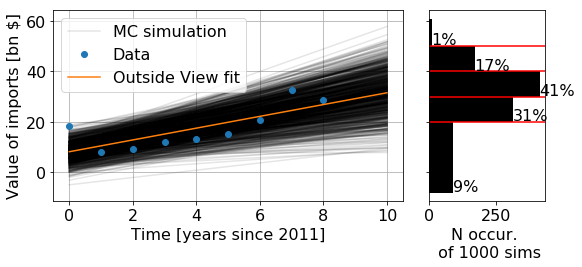
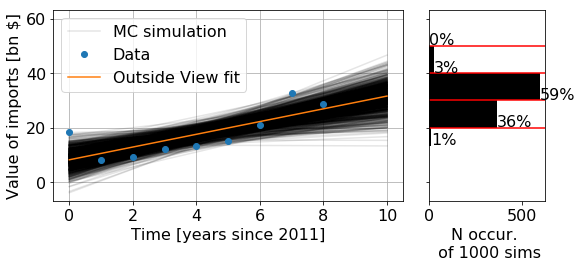
Added post on generating priors from historical data

diff --git a/_posts/_includes/head.html b/_posts/_includes/head.html
@@ -1,0 +1,9 @@
+ <script type="text/x-mathjax-config">
+    MathJax.Hub.Config({
+      tex2jax: {
+        skipTags: ['script', 'noscript', 'style', 'textarea', 'pre'],
+        inlineMath: [['$','$']]
+      }
+    });
+  </script>
+  <script src="https://cdn.mathjax.org/mathjax/latest/MathJax.js?config=TeX-AMS-MML_HTMLorMML" type="text/javascript"></script> 

diff --git a/_posts/.ipynb_checkpoints/2020-12-24-generating-priors-from-historical-data-checkpoint.md b/_posts/.ipynb_checkpoints/2020-12-24-generating-priors-from-historical-data-checkpoint.md
@@ -3,13 +3,41 @@ title: "Generating priors from historical data"
 tags:
   - forecasting
   - hardware
+  - python
 ---
+{% include_relative _includes/head.html %}
 
-I have recently started forecasting on CSET's [Foretell](https://www.cset-foretell.com/) platform. I've been interested in forecasting for a while, but I've always gotten stuck on where to start. The advice that most people seem to give (including Foretell's own [tutorial](https://www.cset-foretell.com/courses/2/slides/1)) is to start with a base rate (aka an "outside view") and then update it using the specific of the specific situation you are forecasting (aka an "inside view"). The problem I've had with this is that I generally have neither and inside view nor an outside view for more forecasts. I generally just come in with a uniform prior, thinking that all the options of the forecast are equally likely. In this post I'll explain my first step to go beyond this "uniform prior" forecast. 
+*Note, you can find the original Jupyter notebooks used to generate the plots in this post in my [forecasts repo](https://github.com/cphenicie/forecasts) in the Foretell folder. The file is 20201118_value_of_Chinese_semiconductor-imports.ipynb, and there is a PDF printout of the file for ease of viewing*
 
-One nice thing about Foretell's questions is sometimes they provide data from which one can construct a base rate. One example of this is the question [What will be the value, in dollars, of all Chinese imports of semiconductor manufacturing equipment in 2021?](https://www.cset-foretell.com/questions/95-what-will-be-the-value-in-dollars-of-all-chinese-imports-of-semiconductor-manufacturing-equipment-in-2021) The "answer" to this question takes the form of your confidence that this dollar value will fall within the ranges (in units of billion USD) {[0, 20], (20, 30], (30, 40], (40, 50], (50, $$\infty$$)}
+I have recently started forecasting on CSET's [Foretell](https://www.cset-foretell.com/) platform. I've been interested in forecasting for a while, but I've always gotten stuck on where to start. The advice that most people seem to give (including Foretell's own [tutorial](https://www.cset-foretell.com/courses/2/slides/1)) is to start with a base rate (aka an "outside view") and then update it using the specifics of the situation you are forecasting (aka an "inside view"). The problem I've had with this is that I generally have neither and inside view nor an outside view for most forecasts. I generally just come in with a uniform prior, thinking that all the options of the forecast are equally likely. In this post I'll explain my first step to go beyond this "uniform prior" forecast. 
 
-If you click "Show background information" below the question, they provide nine years' worth of data measuring exactly this quantity. 
+One nice thing about Foretell's questions is sometimes they provide data from which one can construct a base rate. One example of this is the question [What will be the value, in dollars, of all Chinese imports of semiconductor manufacturing equipment in 2021?](https://www.cset-foretell.com/questions/95-what-will-be-the-value-in-dollars-of-all-chinese-imports-of-semiconductor-manufacturing-equipment-in-2021) The "answer" to this question takes the form of your confidence that this dollar value will fall within the ranges (in units of billion USD) {[0, 20], (20, 30], (30, 40], (40, 50], (50, $\infty$)}
+
+If you click "Show background information" below the question, they provide nine years' worth of data measuring exactly this quantity.
+
 ![original data](/assets/images/2020-12-24-forecast/original_data.png)
 
-Now, with this data in hand, I actually feel like I have a reason to start assigning numbers. If I want to start using some "outside view" thinking, 
+Now, with this data in hand, I actually feel like I have a reason to start assigning numbers to an outside view. Specifically, I can make an outside view prediction that the future will just follow the trajectory of the past. The physicist in me thinks that a good first guess is we can take a linear approximation of the trend by fitting a line to it, using the functional form
+
+```python
+def outside_func(t, m, b):
+    return m*t + b
+```
+
+![fit data](/assets/images/2020-12-24-forecast/linear_fit.png)
+
+The most naive interpretation of this is to evaluate the `outside_func` function at `t=10`, which suggests that the value for 2021 will be 31.5 billion USD. However, our goal is not to predict the most likely number, but to produce a distribution. That is, how likely is each specific $y$ value. I think with the fit uncertainty we could analytically build up the probability density function $P(y)$ for the ranges of $y$ we care about. However, I think an equivalent way to do this is to just run a Monte Carlo simulation were we randomly sample from our fit parameters, and then bin the value of `outside_func(t=10)` that we get from the simulation.
+
+To generate the Monte Carlo simulation, we want to plot lines that have the parameters `[m,b]` drawn from the distribution defined from the covariance matrix of the fit. Wikipedia gives the [formula for this joint distribution given the best fit parameters and covariance matrix](https://en.wikipedia.org/wiki/Covariance_matrix#Covariance_matrix_as_a_parameter_of_a_distribution). This is just the formula for the multivariate normal distribution, which `numpy` already has a built in function to sample from. So, we can generate, for example, 1000 samples of the fit parameters in a single line of code:
+
+```python
+fit_params_gen = np.random.multivariate_normal(popt, pcov, 1000)
+```
+
+where `popt` and `pcov` are the best fit parameters and covariance matrix returned from the `scipy.optimize.curve_fit()` function. Then, we can just plot these 1000 lines, calculate `outside_func(t=10)` for each of them, and build a histogram of that distribution in each of the bins selected by Foretell:
+
+![binned simulations](/assets/images/2020-12-24-forecast/mc_sim_with_bins.png)
+
+So, this gives some quantitative probabilities for a starting point. However, notice that this model puts extremely low values on some of the bins. I'm generally skeptical I should ever put 0% in a forecast, and this seems especially to be the case when the model is just curve fitting without outside information. So, my current resolution to this is to combine these values with my initial, uniform prior (which would have put 20% into each bin). I'm maybe 50% confident in this model. So, I will update these values by taking the mean of the uniform prior with the trend-fit value $(0.5 * [\text{prior}] + (1-0.5) * [\text{trend-fit value}])$, and then normalizing the resulting distribution. This gives my predicted values of {10%, 28%, 40%, 12%, 10%}.
+
+So, now we have a sort of outside-view prior to work with. Now the goal is to continue to update these numbers as we gain more information about, e.g., the policies and economies of China and the countries it imports from. That's beyond the scope of this post, hopefully I'll write a follow up when I learn any of those details.

diff --git a/_posts/2020-12-24-generating-priors-from-historical-data.md b/_posts/2020-12-24-generating-priors-from-historical-data.md
@@ -3,13 +3,41 @@ title: "Generating priors from historical data"
 tags:
   - forecasting
   - hardware
+  - python
 ---
+{% include_relative _includes/head.html %}
 
-I have recently started forecasting on CSET's [Foretell](https://www.cset-foretell.com/) platform. I've been interested in forecasting for a while, but I've always gotten stuck on where to start. The advice that most people seem to give (including Foretell's own [tutorial](https://www.cset-foretell.com/courses/2/slides/1)) is to start with a base rate (aka an "outside view") and then update it using the specific of the specific situation you are forecasting (aka an "inside view"). The problem I've had with this is that I generally have neither and inside view nor an outside view for more forecasts. I generally just come in with a uniform prior, thinking that all the options of the forecast are equally likely. In this post I'll explain my first step to go beyond this "uniform prior" forecast. 
+*Note, you can find the original Jupyter notebooks used to generate the plots in this post in my [forecasts repo](https://github.com/cphenicie/forecasts) in the Foretell folder. The file is 20201118_value_of_Chinese_semiconductor-imports.ipynb, and there is a PDF printout of the file for ease of viewing*
 
-One nice thing about Foretell's questions is sometimes they provide data from which one can construct a base rate. One example of this is the question [What will be the value, in dollars, of all Chinese imports of semiconductor manufacturing equipment in 2021?](https://www.cset-foretell.com/questions/95-what-will-be-the-value-in-dollars-of-all-chinese-imports-of-semiconductor-manufacturing-equipment-in-2021) The "answer" to this question takes the form of your confidence that this dollar value will fall within the ranges (in units of billion USD) {[0, 20], (20, 30], (30, 40], (40, 50], (50, $$\infty$$)}
+I have recently started forecasting on CSET's [Foretell](https://www.cset-foretell.com/) platform. I've been interested in forecasting for a while, but I've always gotten stuck on where to start. The advice that most people seem to give (including Foretell's own [tutorial](https://www.cset-foretell.com/courses/2/slides/1)) is to start with a base rate (aka an "outside view") and then update it using the specifics of the situation you are forecasting (aka an "inside view"). The problem I've had with this is that I generally have neither and inside view nor an outside view for most forecasts. I generally just come in with a uniform prior, thinking that all the options of the forecast are equally likely. In this post I'll explain my first step to go beyond this "uniform prior" forecast. 
 
-If you click "Show background information" below the question, they provide nine years' worth of data measuring exactly this quantity. 
+One nice thing about Foretell's questions is sometimes they provide data from which one can construct a base rate. One example of this is the question [What will be the value, in dollars, of all Chinese imports of semiconductor manufacturing equipment in 2021?](https://www.cset-foretell.com/questions/95-what-will-be-the-value-in-dollars-of-all-chinese-imports-of-semiconductor-manufacturing-equipment-in-2021) The "answer" to this question takes the form of your confidence that this dollar value will fall within the ranges (in units of billion USD) {[0, 20], (20, 30], (30, 40], (40, 50], (50, $\infty$)}
+
+If you click "Show background information" below the question, they provide nine years' worth of data measuring exactly this quantity.
+
 ![original data](/assets/images/2020-12-24-forecast/original_data.png)
 
-Now, with this data in hand, I actually feel like I have a reason to start assigning numbers. If I want to start using some "outside view" thinking, 
+Now, with this data in hand, I actually feel like I have a reason to start assigning numbers to an outside view. Specifically, I can make an outside view prediction that the future will just follow the trajectory of the past. The physicist in me thinks that a good first guess is we can take a linear approximation of the trend by fitting a line to it, using the functional form
+
+```python
+def outside_func(t, m, b):
+    return m*t + b
+```
+
+![fit data](/assets/images/2020-12-24-forecast/linear_fit.png)
+
+The most naive interpretation of this is to evaluate the `outside_func` function at `t=10`, which suggests that the value for 2021 will be 31.5 billion USD. However, our goal is not to predict the most likely number, but to produce a distribution. That is, how likely is each specific $y$ value. I think with the fit uncertainty we could analytically build up the probability density function $P(y)$ for the ranges of $y$ we care about. However, I think an equivalent way to do this is to just run a Monte Carlo simulation were we randomly sample from our fit parameters, and then bin the value of `outside_func(t=10)` that we get from the simulation.
+
+To generate the Monte Carlo simulation, we want to plot lines that have the parameters `[m,b]` drawn from the distribution defined from the covariance matrix of the fit. Wikipedia gives the [formula for this joint distribution given the best fit parameters and covariance matrix](https://en.wikipedia.org/wiki/Covariance_matrix#Covariance_matrix_as_a_parameter_of_a_distribution). This is just the formula for the multivariate normal distribution, which `numpy` already has a built in function to sample from. So, we can generate, for example, 1000 samples of the fit parameters in a single line of code:
+
+```python
+fit_params_gen = np.random.multivariate_normal(popt, pcov, 1000)
+```
+
+where `popt` and `pcov` are the best fit parameters and covariance matrix returned from the `scipy.optimize.curve_fit()` function. Then, we can just plot these 1000 lines, calculate `outside_func(t=10)` for each of them, and build a histogram of that distribution in each of the bins selected by Foretell:
+
+![binned simulations](/assets/images/2020-12-24-forecast/mc_sim_with_bins.png)
+
+So, this gives some quantitative probabilities for a starting point. However, notice that this model puts extremely low values on some of the bins. I'm generally skeptical I should ever put 0% in a forecast, and this seems especially to be the case when the model is just curve fitting without outside information. So, my current resolution to this is to combine these values with my initial, uniform prior (which would have put 20% into each bin). I'm maybe 50% confident in this model. So, I will update these values by taking the mean of the uniform prior with the trend-fit value $(0.5 * [\text{prior}] + (1-0.5) * [\text{trend-fit value}])$, and then normalizing the resulting distribution. This gives my predicted values of {10%, 28%, 40%, 12%, 10%}.
+
+So, now we have a sort of outside-view prior to work with. Now the goal is to continue to update these numbers as we gain more information about, e.g., the policies and economies of China and the countries it imports from. That's beyond the scope of this post, hopefully I'll write a follow up when I learn any of those details.
